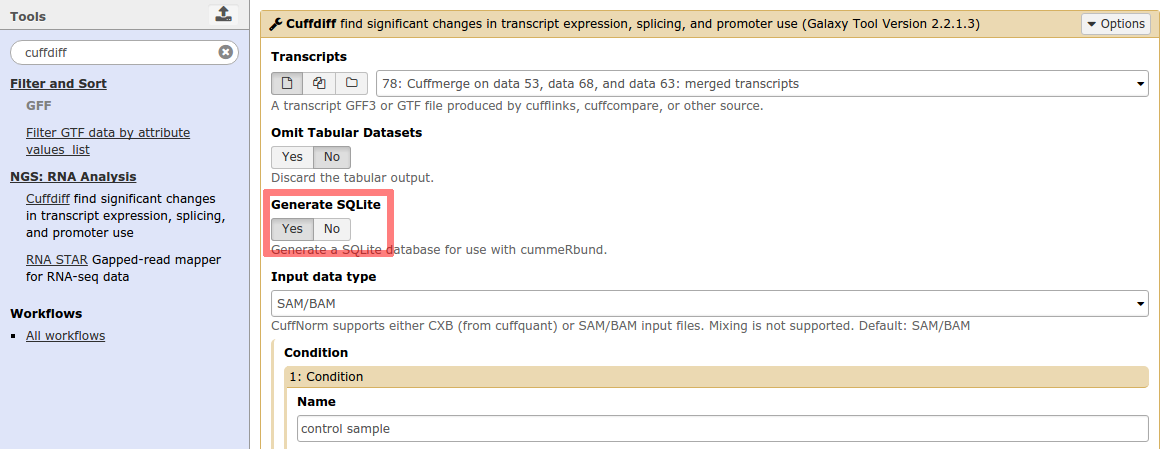
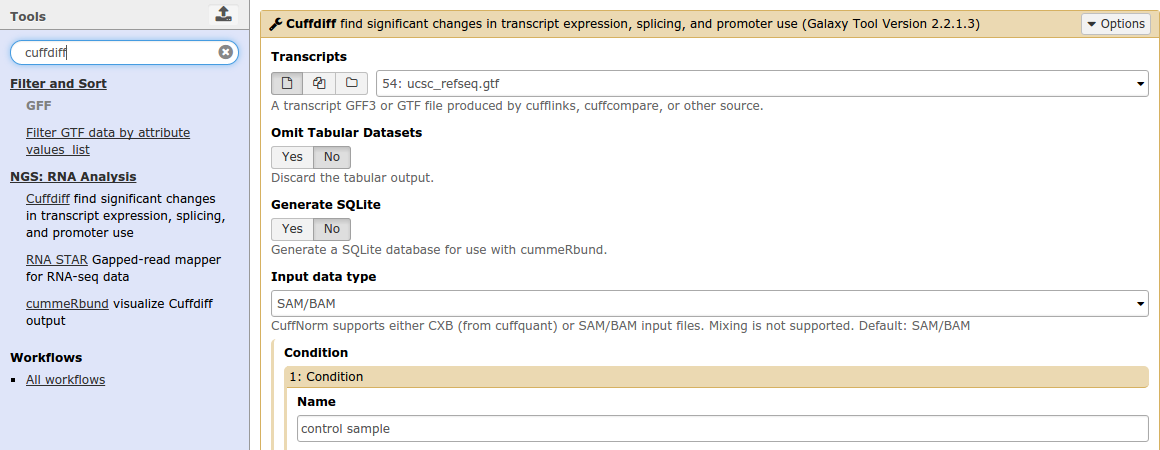
small changes

diff --git a/Galaxy_RNA-Seq_DGE/Galaxy_RNA-Seq_DGE_manual.tex b/Galaxy_RNA-Seq_DGE/Galaxy_RNA-Seq_DGE_manual.tex
@@ -82,14 +82,14 @@ There are several tools able to do differential gene expression analysis, like C
 Simetimes it can be handy to obtain some extra details from your BAM files, for example if they are given to you by a third party. Find the tool ``BAM-to-SAM" and select the following settings:\\
 \includegraphics[width=\textwidth]{figures/basic_01.png}\\
 \begin{itemize}
-	\item Can you find out what version of HISAT2 was used?
+	\item Can you find out which version of HISAT2 was used?
 \end{itemize}
 As you might have seen when we visualized the alignments, it is not really feasible to find expression levels or determine genes by `eye'. To assemble the expressed genes and estimate the corresponding expression levels we will make use of the \textit{Tuxedo pipeline}. The program CuffLinks assembles genes, isoforms, measures gene expression and sets the basis for differential gene expression analysis. Run CuffLinks on both alignments separately:\\
 \includegraphics[width=\textwidth]{figures/basic_02a.png}\\
 \includegraphics[width=\textwidth]{figures/basic_02b.png}\\
 We have selected the \textit{Reference annotation} as guide, meaning that it uses a known gene annotation as basis for the assembled genes and adds possible new exons or genes to it. Because each sample may contain its own unique expressed transcripts, all assembled have to be merged into one transcript annotation before doing comparative expression analysis such that we can do analysis on the known (ucsc) and newly discovered transcripts:\\
 \includegraphics[width=\textwidth]{figures/basic_03.png}\\
-To compare the expression profiles with each other, we use CuffDiff. Please note that we use only 1 replicate per condition which is statistically speaking a non-ideal setup. Therefore we need to set the dispersion estimation method to \textit{blind}. The next step in the pipeline will be visualizations for which CuffDiff needs to produce a database, which has to be selected by choosing \textbf{Generate SQLite} to \textit{Yes}. Proceed with the following settings and leave the rest default:\\
+To compare the expression profiles with each other, we use CuffDiff. Please note that we use only 1 replicate per condition which is statistically speaking a non-ideal setup. Therefore we need to set the dispersion estimation method to \textit{blind}. Proceed with the following settings and leave the rest default:\\
 \includegraphics[width=\textwidth]{figures/basic_04a.png}\\
 \includegraphics[width=\textwidth]{figures/basic_04b.png}\\
 This analysis will create a bunch of new history items for different tests that are being applied. Look carefully before selecting the file to answer the following question:
@@ -122,7 +122,7 @@ The flagstat exercise told us we had 18258 reads in total. This should match wit
 \end{itemize}
 
 \subsection{Expression analysis: Low sequencing depth}
-In the previous exercise we found which gene had the highest readcount, but what does it mean if this gene always has a high readcount in every sample? To say something about expression levels, we should say it in a context relative to other expression levels. Therefore, we need normalization and apply statistical testing. A popular package that allows to do this is EdgeR.
+In the previous exercise we found which gene had the highest readcount, but what does it mean if this gene has a high read count in every sample? To say something about expression levels, we should say it in a context relative to other expression levels. Therefore, we need normalization and apply statistical testing. A popular package that allows to do this is EdgeR.
 
 In the following analyses you will determine the differentially expressed genes in the MCF7-cell line between samples that have been treated with the hormone $\beta$-estradiol (E2) and those that were left as control. For this analysis we will make use of samples all taken from this cell line. In the corresponding article, the statistical power has been estimated at different sequencing depths (subsampling) and with a different number of replicates. Before we proceed, please read the abstract of the following article:
 \url{http://dx.doi.org/10.1093/bioinformatics/btt688}\\

diff --git a/Galaxy_101_Introduction_Course/Galaxy_101_manual.tex b/Galaxy_101_Introduction_Course/Galaxy_101_manual.tex
@@ -111,7 +111,7 @@ Click \textbf{Execute} to do the grouping. Your history will look something like
 If you look at the above image you will see that the result of grouping (dataset \#4) contains two columns. The first column contains the exon names while the second contains the number of times this name has been repeated in dataset \#3 (i.e. number of SNPs within that exon).
 \subsection{Sorting exons by SNP count}
 To see which exon has the highest number of SNPs we can simply sort dataset \#4 on the second column in descending order. This can be done with the ``Sort'' tool:\\
-\includegraphics[scale=0.65]{figures/101_15}\\
+\includegraphics[width=\textwidth]{figures/101_15}\\
 This will generate the a history item in which you can now see that the highest number of SNPs per exon is ...:\\
 \includegraphics[scale=0.65]{figures/101_16}\\
 \subsection{Selecting top five}
